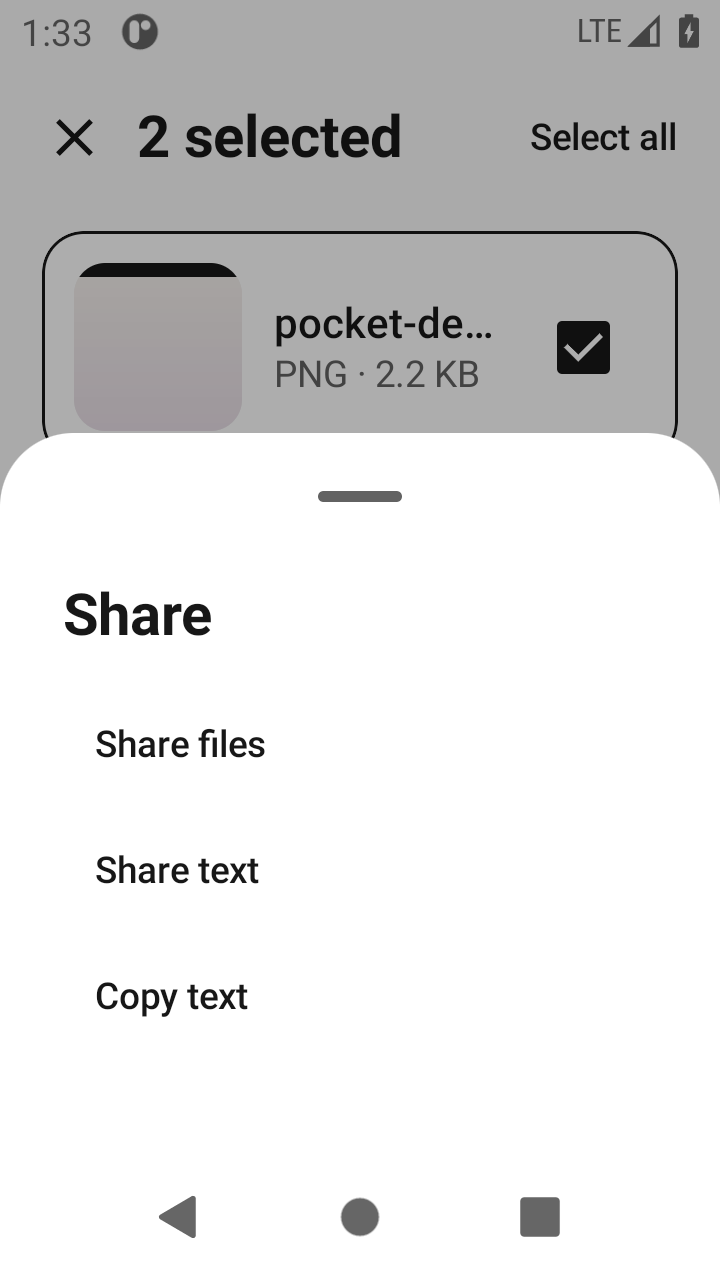
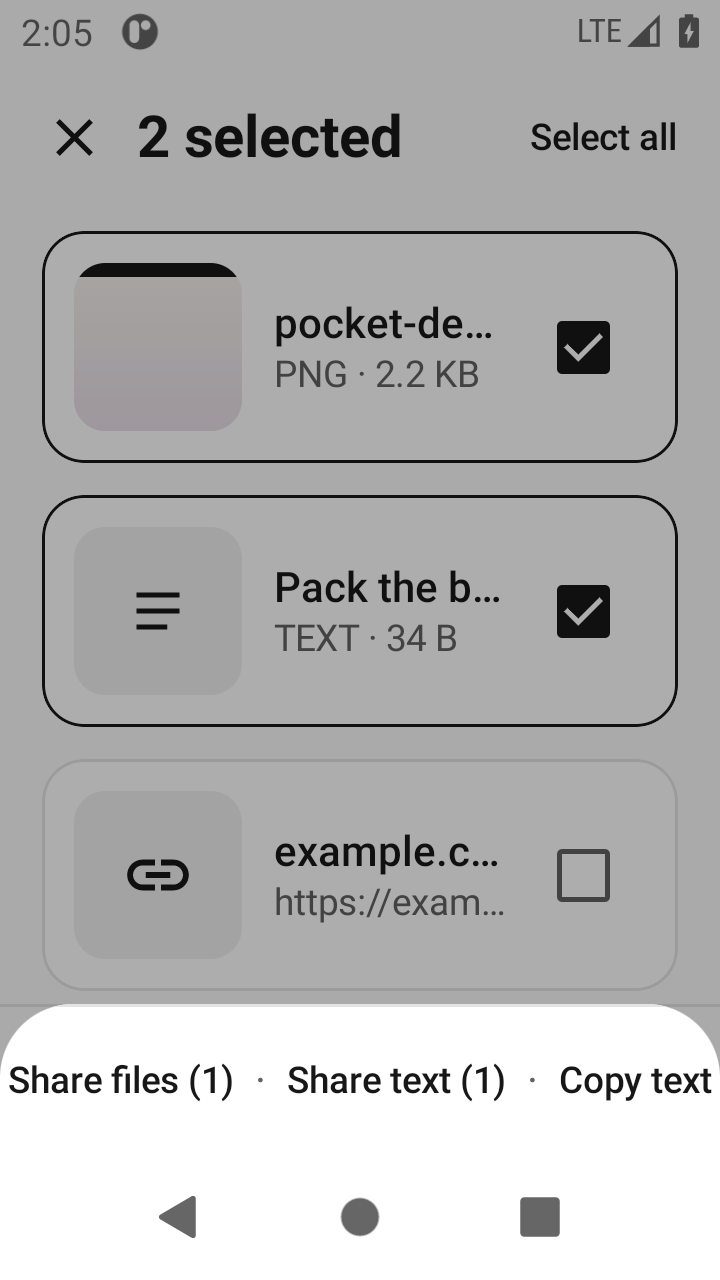
Recapture freeze chrome stills for detail and mixed share.
Light and dark frames for image Share · Remove, text Copy · Share,
link Open · Copy · Share, and the counted mixed share row.

diff --git a/docs/demo/CAPTURE.md b/docs/demo/CAPTURE.md
@@ -17,11 +17,13 @@ Assets in this folder were taken from the **running debug app** on an emulator, 
 | `selection-dark.png` | Same selection, dark |
 | `arrange-light.png` | Light arrange, drag handles, **Done**, Move up / Move down on each row |
 | `arrange-dark.png` | Same arrange, dark |
-| `detail-image-light.png` | Image item detail, light, full preview, Close + **Share** |
+| `detail-image-light.png` | Image item detail, light, full preview, Close + **Share · Remove** |
 | `detail-image-dark.png` | Same image detail, dark |
 | `detail-text-light.png` | Text item detail, light, full note, bottom **Copy · Share** |
 | `detail-text-dark.png` | Same text detail, dark |
-| `mixed-share-choice-light.png` | Light selection **2 selected** (PNG + text) with Share sheet: **Share files / Share text / Copy text** |
+| `detail-link-light.png` | Link item detail, light, hostname + URL, bottom **Open · Copy · Share** |
+| `detail-link-dark.png` | Same link detail, dark |
+| `mixed-share-choice-light.png` | Light selection **2 selected** (PNG + text) with quiet sheet: **Share files (1) · Share text (1) · Copy text** |
 | `mixed-share-choice-dark.png` | Same mixed share choice, dark |
 
 `add-list-share-remove.mp4` is **58 s**, 720×1280, H.264, 12 fps.
@@ -64,9 +66,9 @@ Overflow **Select items**, then the first two checkboxes, produced **2 selected*
 
 ## Item detail and mixed share stills
 
-`detail-image-*.png`, `detail-text-*.png`, and `mixed-share-choice-*.png` are `adb exec-out screencap` frames from a later TCG boot of the same AVD after installing the item-detail APK. How to add was dismissed. The shelf had a PNG (`pocket-demo.png`), a text note (`Pack the bag. Do not forget socks.`), and the `example.com` link.
+`detail-image-*.png`, `detail-text-*.png`, `detail-link-*.png`, and `mixed-share-choice-*.png` are `adb exec-out screencap` frames from a later TCG boot of the same AVD after installing the freeze-chrome APK. How to add was dismissed. The shelf had a PNG (`pocket-demo.png`), a text note (`Pack the bag. Do not forget socks.`), and the `example.com` link.
 
-Tap the PNG row for a full preview with Close and Share. Tap the text row to read the note with **Copy · Share**. Long-press the PNG, tap the text row, then bottom Share. The sheet lists **Share files**, **Share text**, and **Copy text**. Selection stays at **2 selected** behind the sheet. Close and Back leave the shelf as it was. There is no Sent snackbar.
+Tap the PNG row for a full preview with Close and **Share · Remove**. Tap the text row to read the note with **Copy · Share**. Tap the link row for hostname + URL with **Open · Copy · Share**. Overflow **Select items**, check the PNG and the note, then bottom Share. The sheet is a quiet middot row: **Share files (1) · Share text (1) · Copy text**. Selection stays at **2 selected** behind the sheet. Close and Back leave the shelf as it was. There is no Sent snackbar.
 
 Pinch zoom on the image preview is in the Compose gesture handler. These stills do not show a pinch.
 
